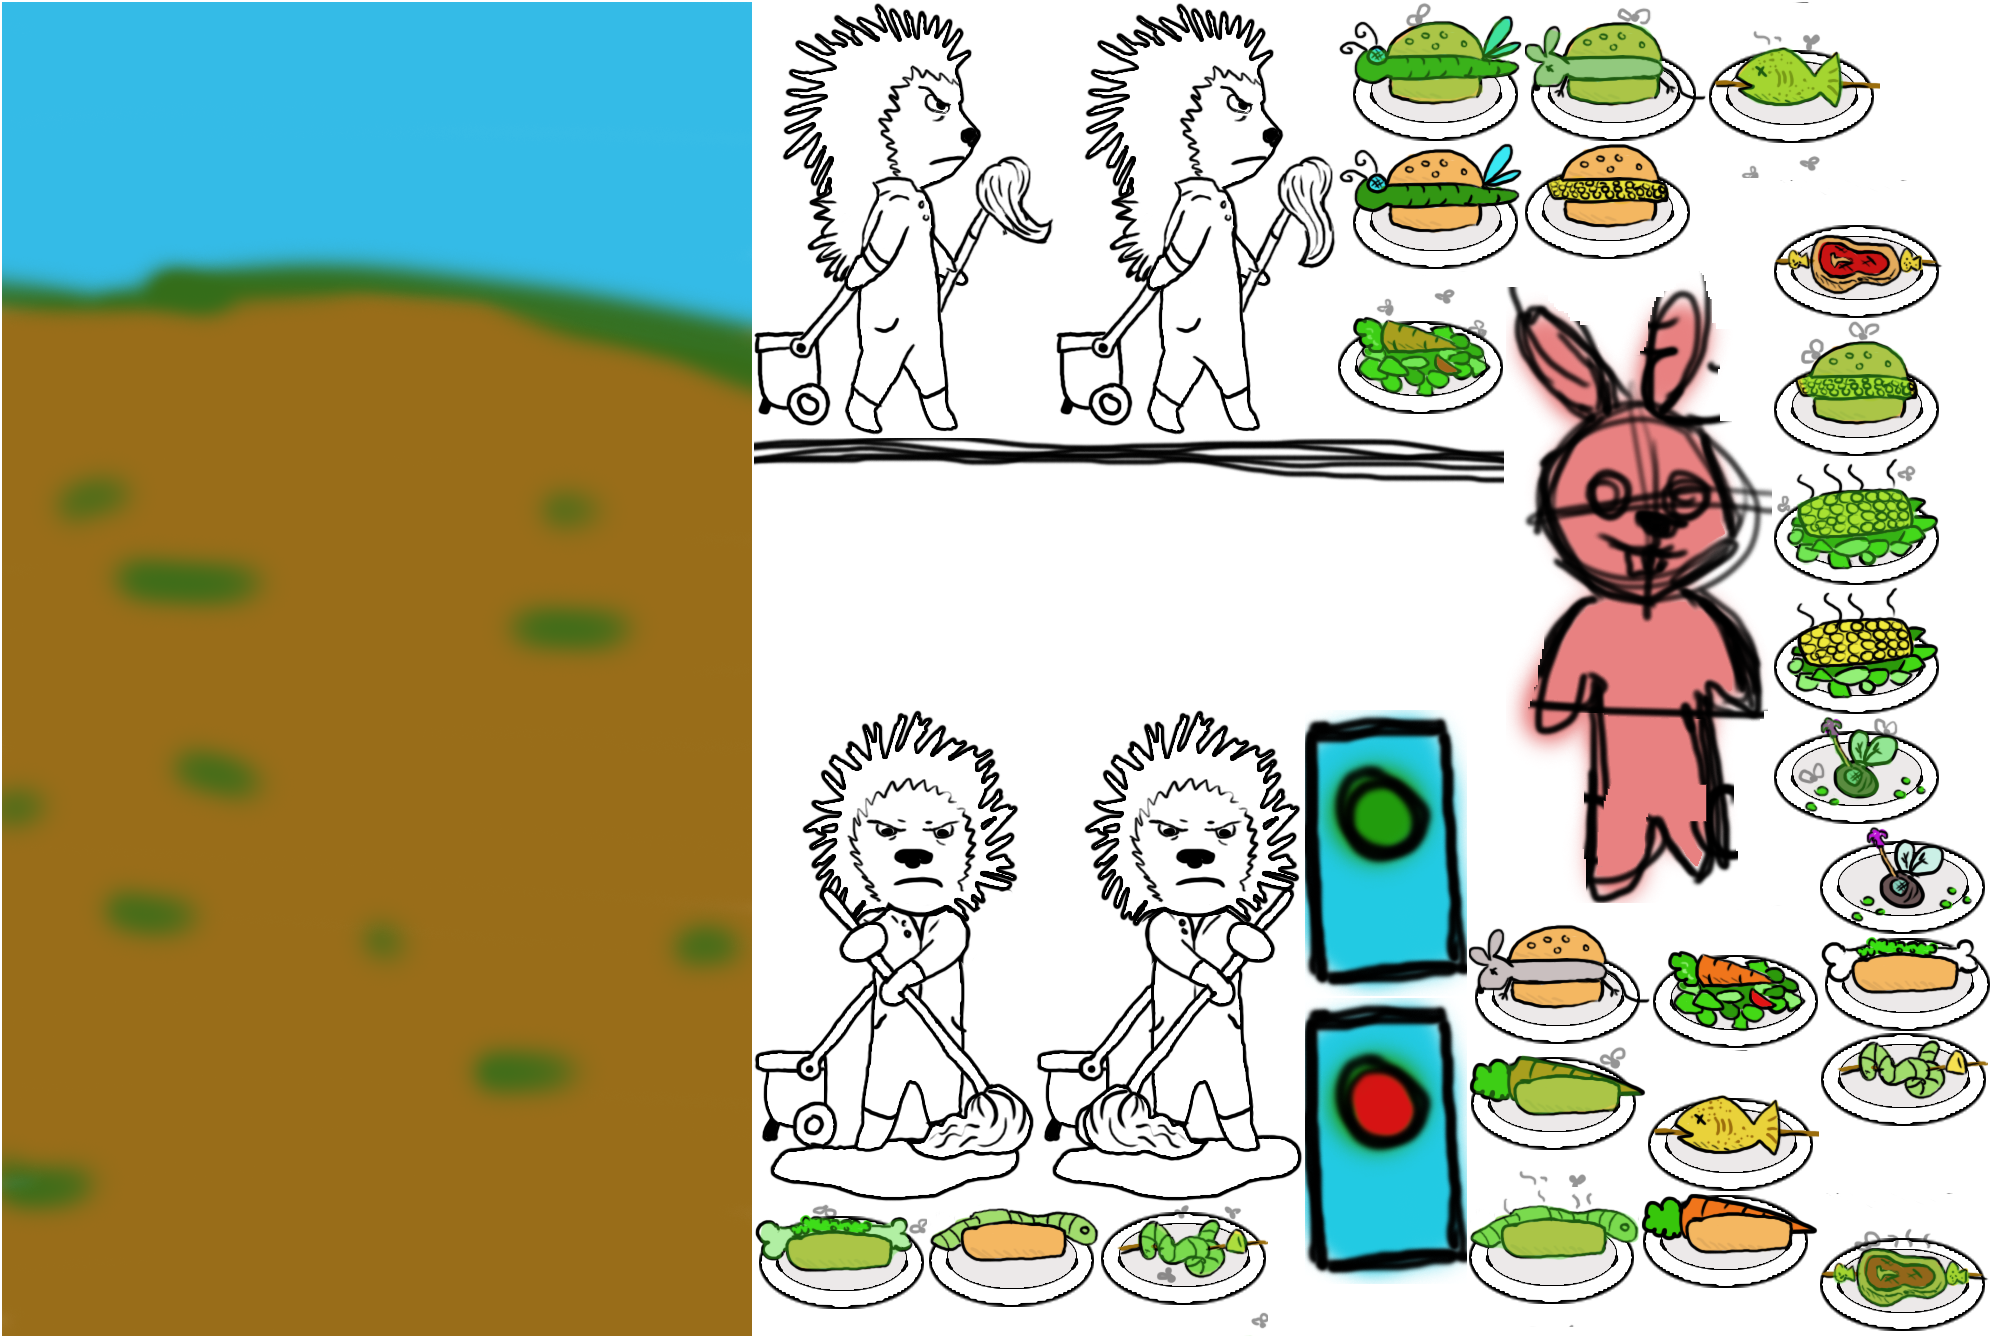
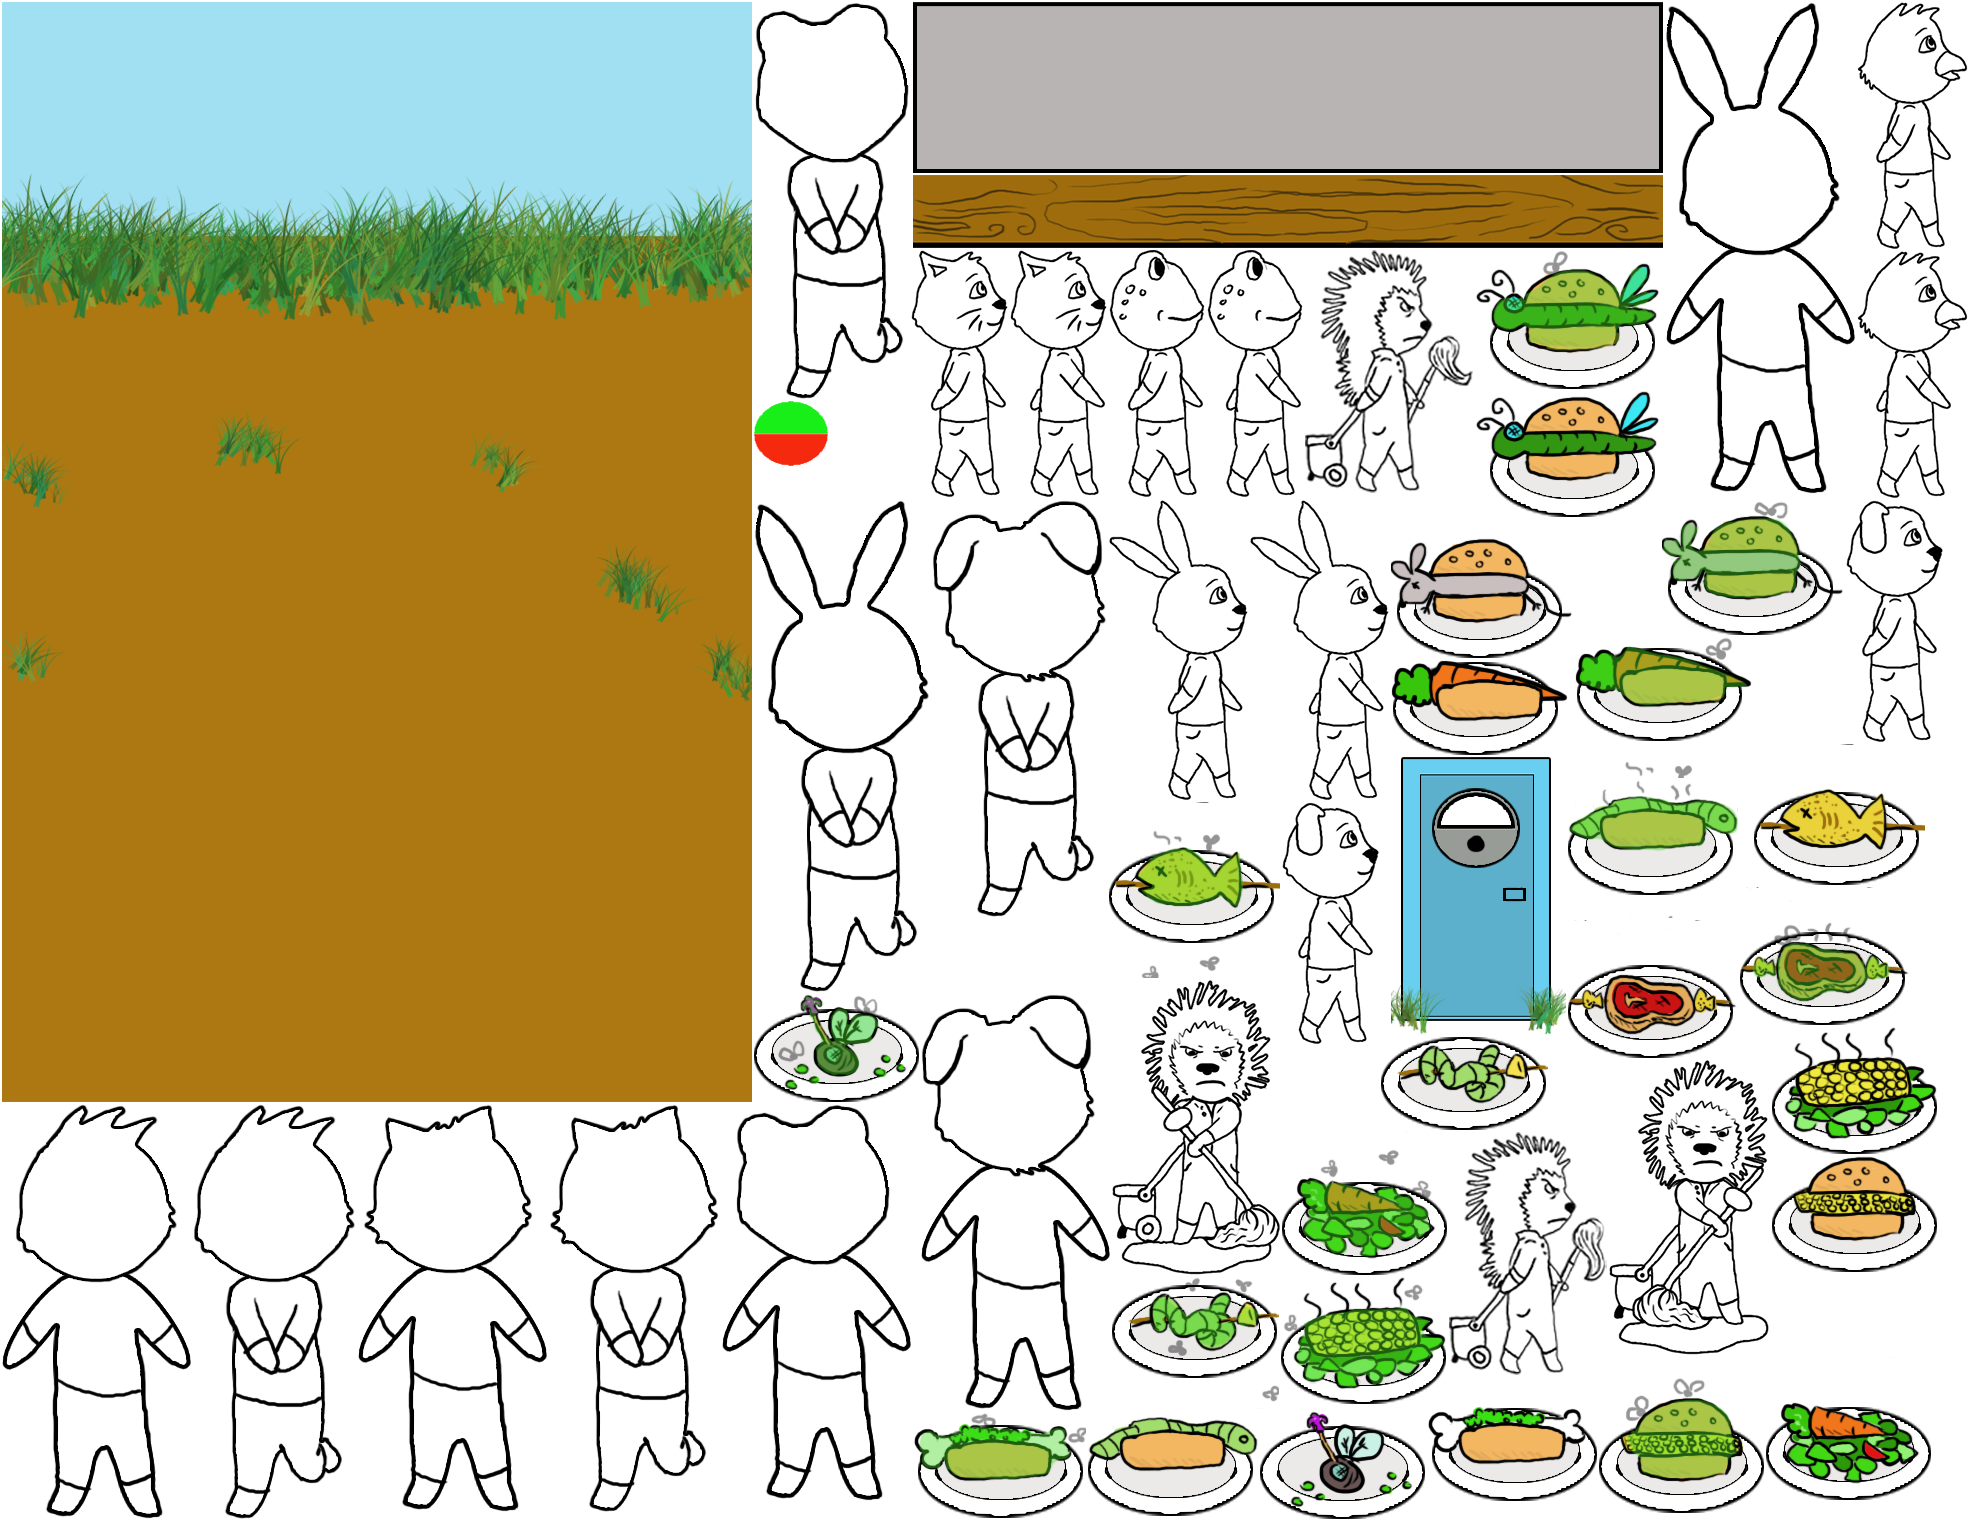
stuff

diff --git a/src/state/play.js b/src/state/play.js
@@ -21,14 +21,13 @@ var Play = {
     this.cleaningUpPoop = false; // is the janitor currently cleaning up poop?
     
     // ui components
-    this.game.add.sprite(0, 0, "Sprites", "Background_1.png");
+    this.game.add.sprite(0, 0, "Sprites", "Background_Gameplay_1.png");
     this.pottyGroup = game.add.group();
     this.poopGroup = game.add.group();
     
     this.janitor = game.add.sprite(game.width + 200, 140, "Sprites");
     this.janitor.animations.add("walk", ["Janitor_Walk_1.png", "Janitor_Walk_2.png"], 2.5, true);
     this.janitor.animations.add("mop", ["Janitor_Mop_1.png", "Janitor_Mop_2.png"], 1.5, true);
-    this.janitor.scale.set(.6, .6);
     this.janitor.anchor.set(.5, .5);
     this.janitor.play("walk");
     
@@ -141,10 +140,10 @@ var Play = {
       // send out the janitor to clean the mess
       var targetMess = this.poopGroup.children[0];
       if (targetMess.x < this.janitor.x) {
-        this.janitor.scale.x = -.6;
+        this.janitor.scale.x = -1;
       }
       else {
-        this.janitor.scale.x = .6;
+        this.janitor.scale.x = 1;
       }
       // TODO: play grumpy janitor sound
       this.janitor.y = targetMess.y - 10;
@@ -160,20 +159,27 @@ var Play = {
         tween2.onComplete.add(function() {
           _this.cash -= 5;
           _this.poopGroup.remove(targetMess);
-          _this.cleaningUpPoop = false;
-          // TODO: play cash loss sound
           _this.janitor.play("walk");
-          destX = Math.random() > .5 ? game.width + 200 : -200;
-          if (destX < _this.janitor.x) {
-            _this.janitor.scale.x = -.6;
+          if (!_this.poopGroup.children.length) {
+            // TODO: play cash loss sound
+            destX = Math.random() > .5 ? game.width + 200 : -200;
+            if (destX < _this.janitor.x) {
+              _this.janitor.scale.x = -1;
+            }
+            else {
+              _this.janitor.scale.x = 1;
+            }
+            distance = Math.abs(destX - _this.janitor.x);
+            var tween3 = game.add.tween(_this.janitor)
+            .to({x: destX}, distance * 4.5)
+            .start();
+            tween3.onComplete.add(function() {
+              _this.cleaningUpPoop = false;
+            })
           }
           else {
-            _this.janitor.scale.x = .6;
+            _this.cleaningUpPoop = false;
           }
-          distance = Math.abs(destX - _this.janitor.x);
-          var tween3 = game.add.tween(_this.janitor)
-          .to({x: destX}, distance * 4.5)
-          .start();
         });
       });
     }
@@ -362,14 +368,25 @@ var Play = {
     //   customer.state.foodTypes.push(foodType);
     // }
     // graphics
+
+      // 0 - bunny
+  // 1 - cat
+  // 2 - dog
+  // 3 - bird
+  // 4 - frog
+
     var body = game.add.sprite(0, 0, "Sprites");
     customer.state.body = body;
+    var animName = null;
     switch (type) {
-      case 0:
-        body.animations.add("walk", ["Customer_Bunny_Walk_1.png"], 15, true);
-        customer.state.foodTypes = [0];
-        break;
+      case 0: animName = "Bunny"; break;
+      case 1: animName = "Cat"; break;
+      case 2: animName = "Dog"; break;
+      case 3: animName = "Bird"; break;
+      case 4: animName = "Frog"; break;
     }
+    body.animations.add("walk", ["Customer_" + animName + "_Standing_1.png"], 15, true);
+    customer.state.foodTypes = [type];
     body.play("walk");
     // var thoughtBubble = game.add.sprite(60, -130, "Sprites", "Though_Bubble_1.png");
     // thoughtBubble.alpha = 0;
@@ -452,8 +469,8 @@ var Play = {
     potty.state = {occupied: false, door: null};
     var pottyDoor = game.add.sprite(0, 0, "Sprites");
     potty.state.door = pottyDoor;
-    pottyDoor.animations.add("unoccupied", ["Potty_Free_1.png"], 15, true);
-    pottyDoor.animations.add("occupied", ["Potty_Taken_1.png"], 15, true);
+    pottyDoor.animations.add("unoccupied", ["Potty_1.png"], 15, true);
+    pottyDoor.animations.add("occupied", ["Potty_Alert_1.png"], 15, true);
     pottyDoor.play("unoccupied");
     potty.addChild(pottyDoor);
 

diff --git a/src/state/title.js b/src/state/title.js
@@ -3,7 +3,7 @@ var Title = {
   },
   create: function() {
     var _this = this;
-    this.game.add.sprite(0, 0, "Sprites", "Background_1.png");
+    this.game.add.sprite(0, 0, "Sprites", "Background_Gameplay_1.png");
 
     var titleText = this.game.add.sprite(game.width / 2, -150, "Sprites", "Food_BoneBun_Good_1.png");
     titleText.anchor.setTo(0.5, 0.5);

diff --git a/src/state/credits.js b/src/state/credits.js
@@ -3,7 +3,7 @@ var Credits = {
   },
   create: function() {
     var _this = this;
-    this.game.add.sprite(0, 0, "Sprites", "Background_1.png");
+    this.game.add.sprite(0, 0, "Sprites", "Background_Gameplay_1.png");
     
     var titleText = this.game.add.sprite(0, 0, "Sprites", "Food_FishBurger_Sick_1.png");
     titleText.anchor.setTo(0.5, 0.5);

diff --git a/src/state/levelSelect.js b/src/state/levelSelect.js
@@ -9,7 +9,7 @@ var LevelSelect = {
   preload: function() {
   },
   create: function() {
-    this.game.add.sprite(0, 0, "Sprites", "Background_1.png");
+    this.game.add.sprite(0, 0, "Sprites", "Background_Gameplay_1.png");
 
     for (var i=0; i<LEVELS; i++) {
       var unit = PADDING + BUTTON_SIZE;
